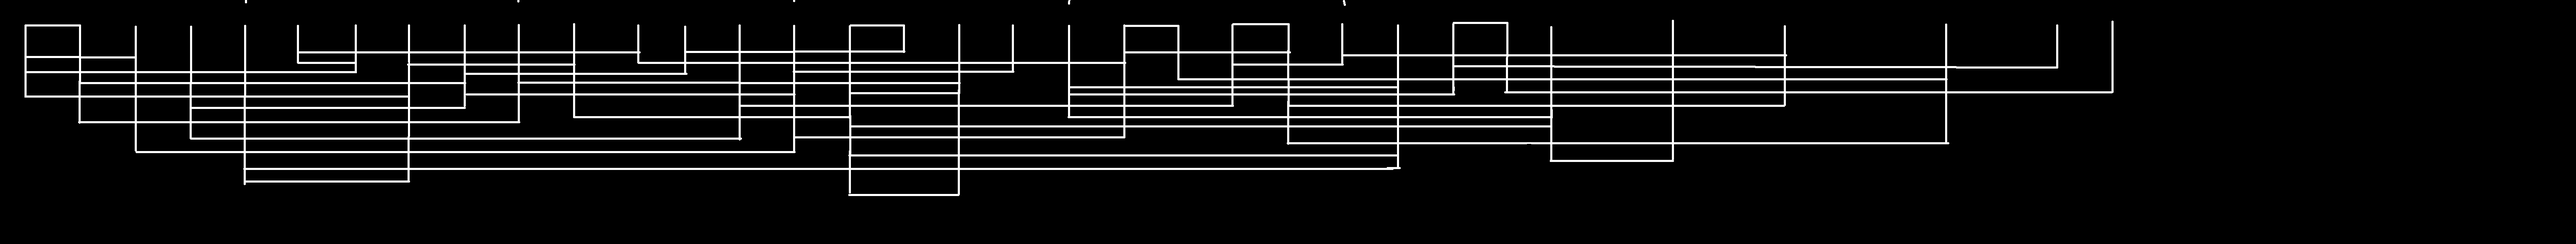
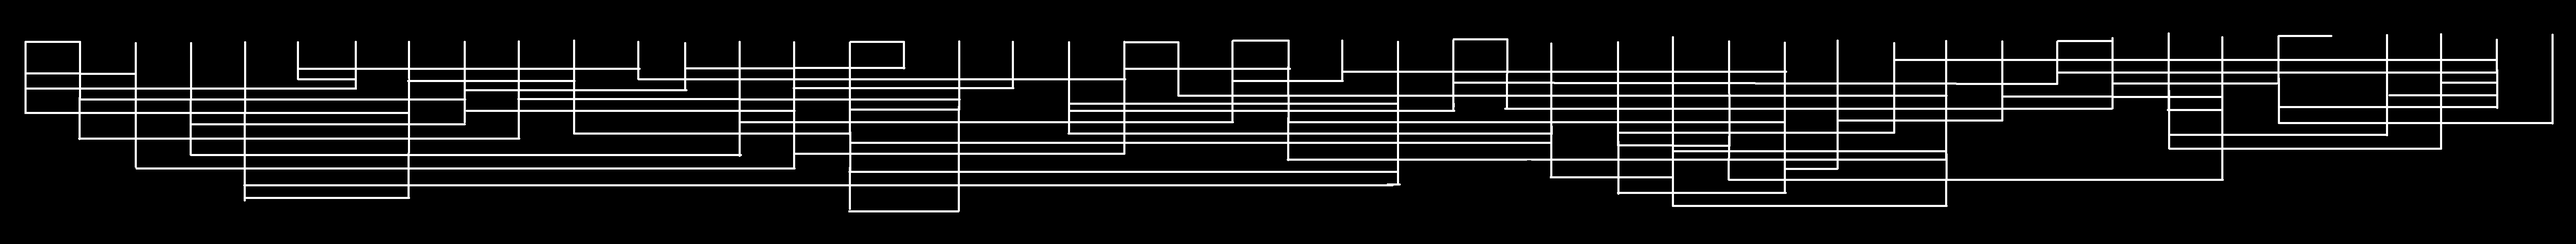
Technology tree finished

diff --git a/src/main/java/Civilization/Main.java b/src/main/java/Civilization/Main.java
@@ -8,12 +8,15 @@ import java.net.URL;
 import java.util.Objects;
 import java.util.Scanner;
 
+import Civilization.Controller.LoginMenuController;
 import Civilization.Controller.MainMenuController;
 import Civilization.Database.UserDatabase;
+import Civilization.Model.LoginMenuModel;
 import Civilization.Model.MainMenuModel;
 import Civilization.Model.User;
 import Civilization.View.Components.Account;
 import Civilization.View.GraphicalBases;
+import Civilization.View.LoginMenu;
 import Civilization.View.MainMenu;
 import Client.Client;
 import javafx.application.Application;
@@ -44,13 +47,15 @@ public class Main extends Application {
 //        MainMenuModel mainMenuModel = new MainMenuModel();
 //        MainMenuController mainMenuController = new MainMenuController(mainMenuModel);
 //        MainMenu mainMenu = new MainMenu(mainMenuController);
-
+//
+//        LoginMenu loginMenu = new LoginMenu(new LoginMenuController(new LoginMenuModel()));
+//
 //        while (true) {
-//            loggedInUser = loginMenu.run(scanner);
-//            if (loggedInUser == null) {
+//            User.loggedInUser = loginMenu.run(scanner);
+//            if (User.loggedInUser == null) {
 //                break;
 //            }
-//            mainMenu.run(scanner, loggedInUser);
+//            mainMenu.run(scanner, User.loggedInUser);
 //        }
 
         UserDatabase.writeInFile("UserDatabase.json");

diff --git a/src/main/java/Civilization/View/FXMLControllers/TechnologyTreeFXMLController.java b/src/main/java/Civilization/View/FXMLControllers/TechnologyTreeFXMLController.java
@@ -45,7 +45,7 @@ public class TechnologyTreeFXMLController {
         Rectangle rectangle = new Rectangle();
         rectangle.setFill(new ImagePattern(GraphicalBases.TREE));
         rectangle.setWidth(6195);
-        rectangle.setHeight(567);
+        rectangle.setHeight(564);
         AnchorPane anchorPane = new AnchorPane();
         anchorPane.getChildren().add(rectangle);
         anchorPane.getChildren().add(hBox);
@@ -62,7 +62,6 @@ public class TechnologyTreeFXMLController {
         HBox hBox = new HBox();
         hBox.setSpacing(10);
         for (int i = 0; i < GlobalVariables.TECHNOLOGIES.length; i++) {
-            System.out.println((i+1) + "-" + x);
             x += 120 + 10;
             boolean disable = false;
             VBox vBox = new VBox();
@@ -90,10 +89,10 @@ public class TechnologyTreeFXMLController {
                     circle.setStroke(Color.BLUE);
                 }
             }
-            vBox.getChildren().add(circle);
             Text text = new Text(technology.getName());
             text.setStyle("-fx-fill: Red; -fx-font-size: 15");
             vBox.getChildren().add(text);
+            vBox.getChildren().add(circle);
             for (Technology leadingTechnology : technology.getLeadingTechnologies()) {
                 Circle leadingCircle = new Circle(30);
                 leadingCircle.setStroke(circle.getStroke());
